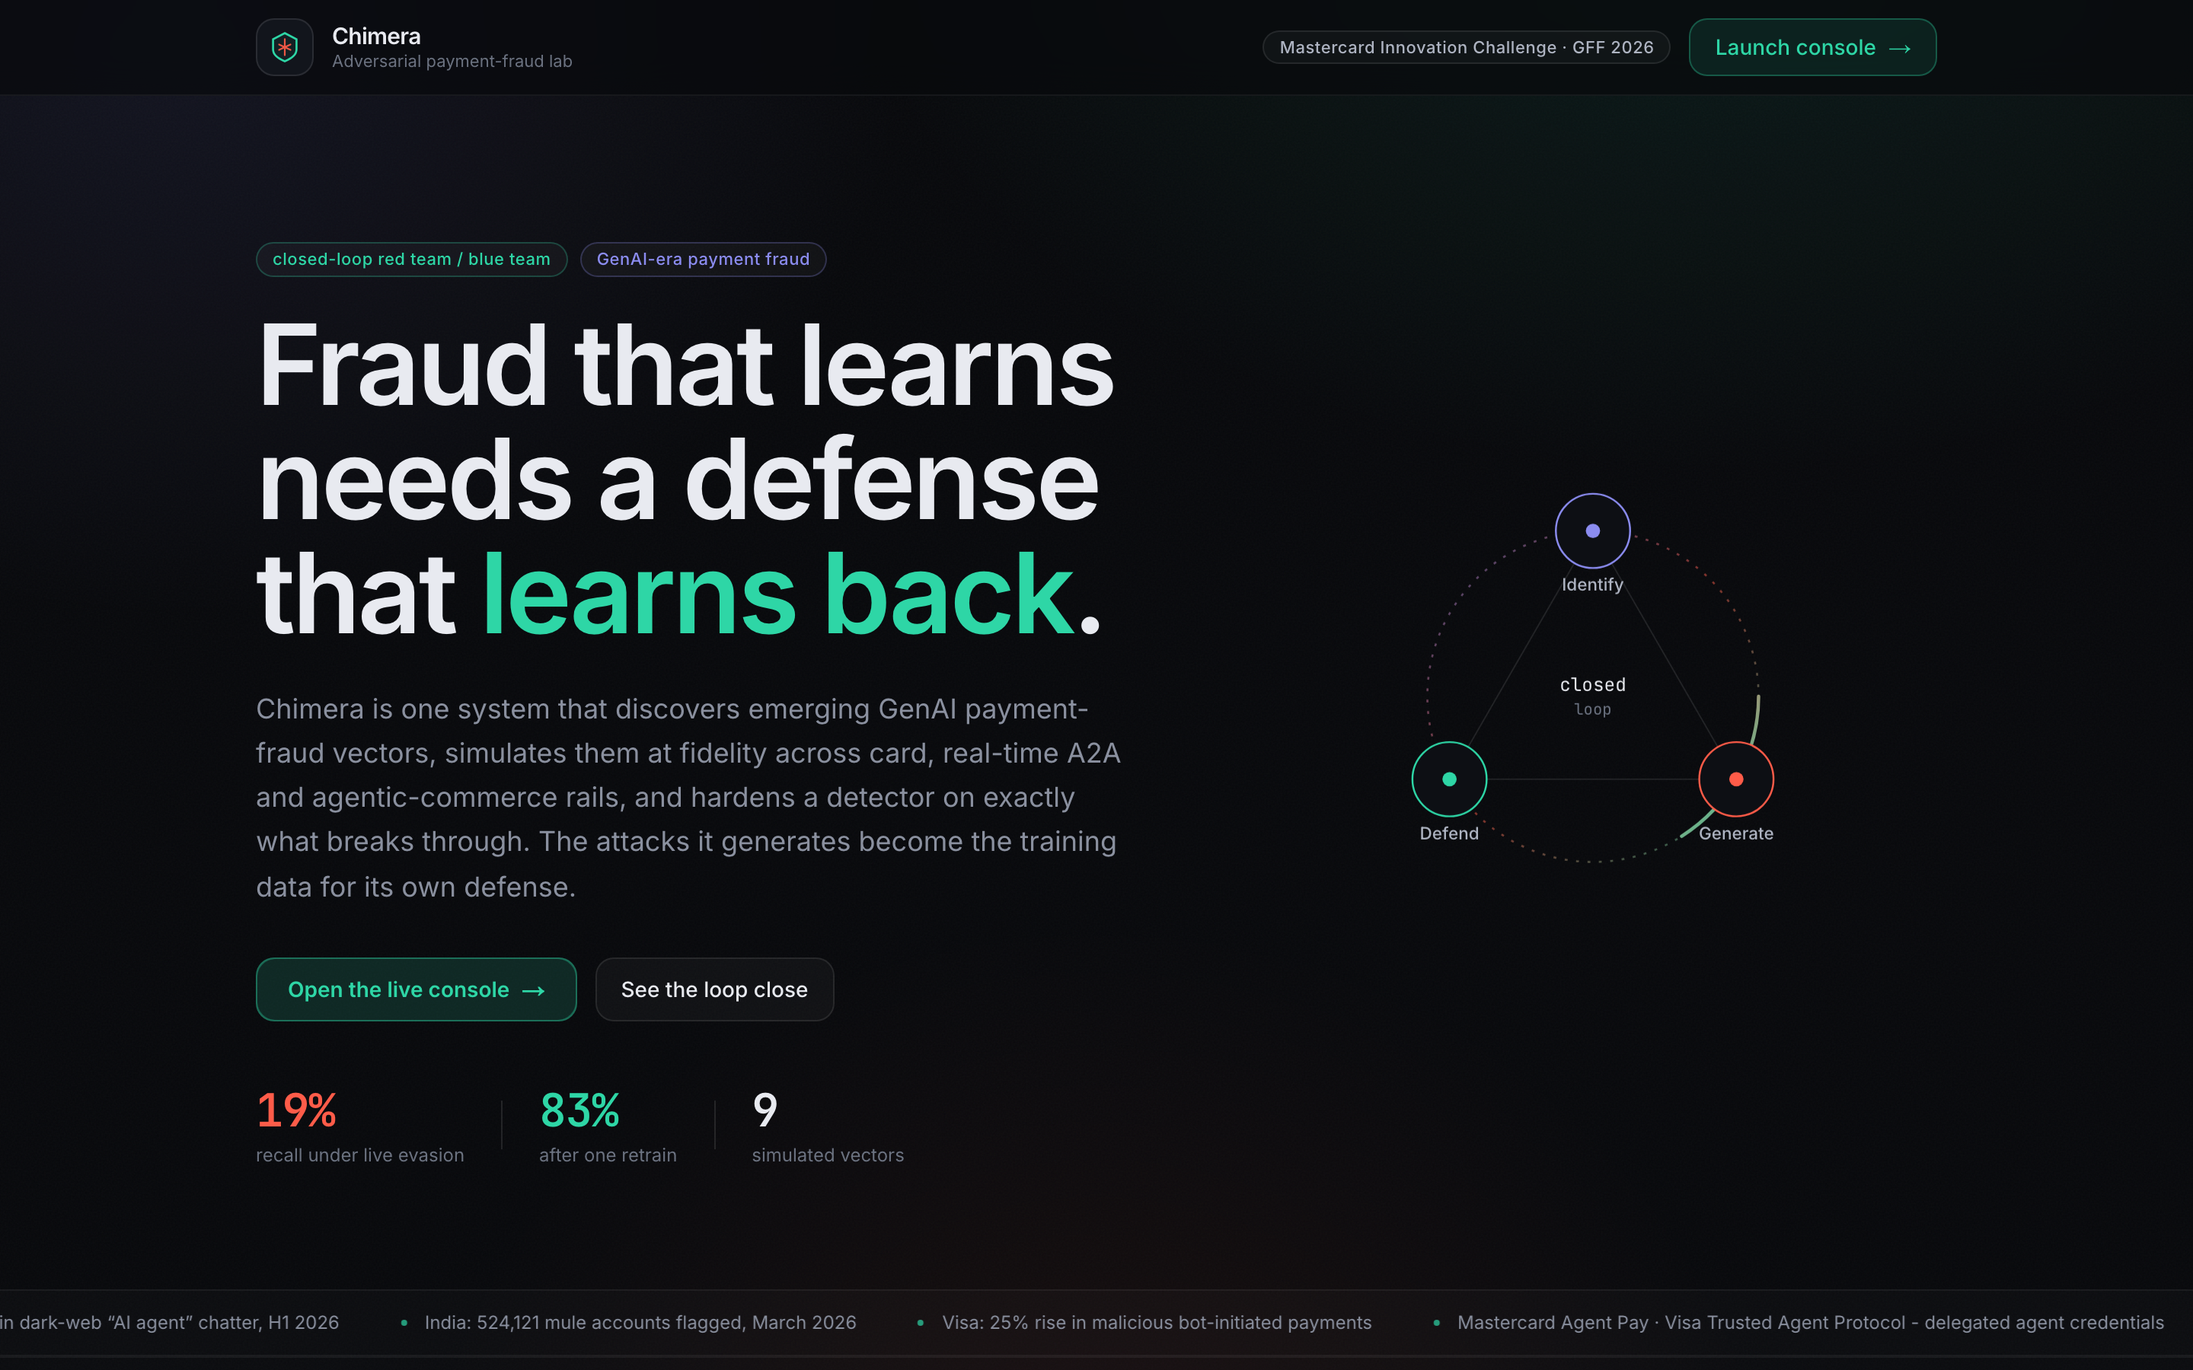
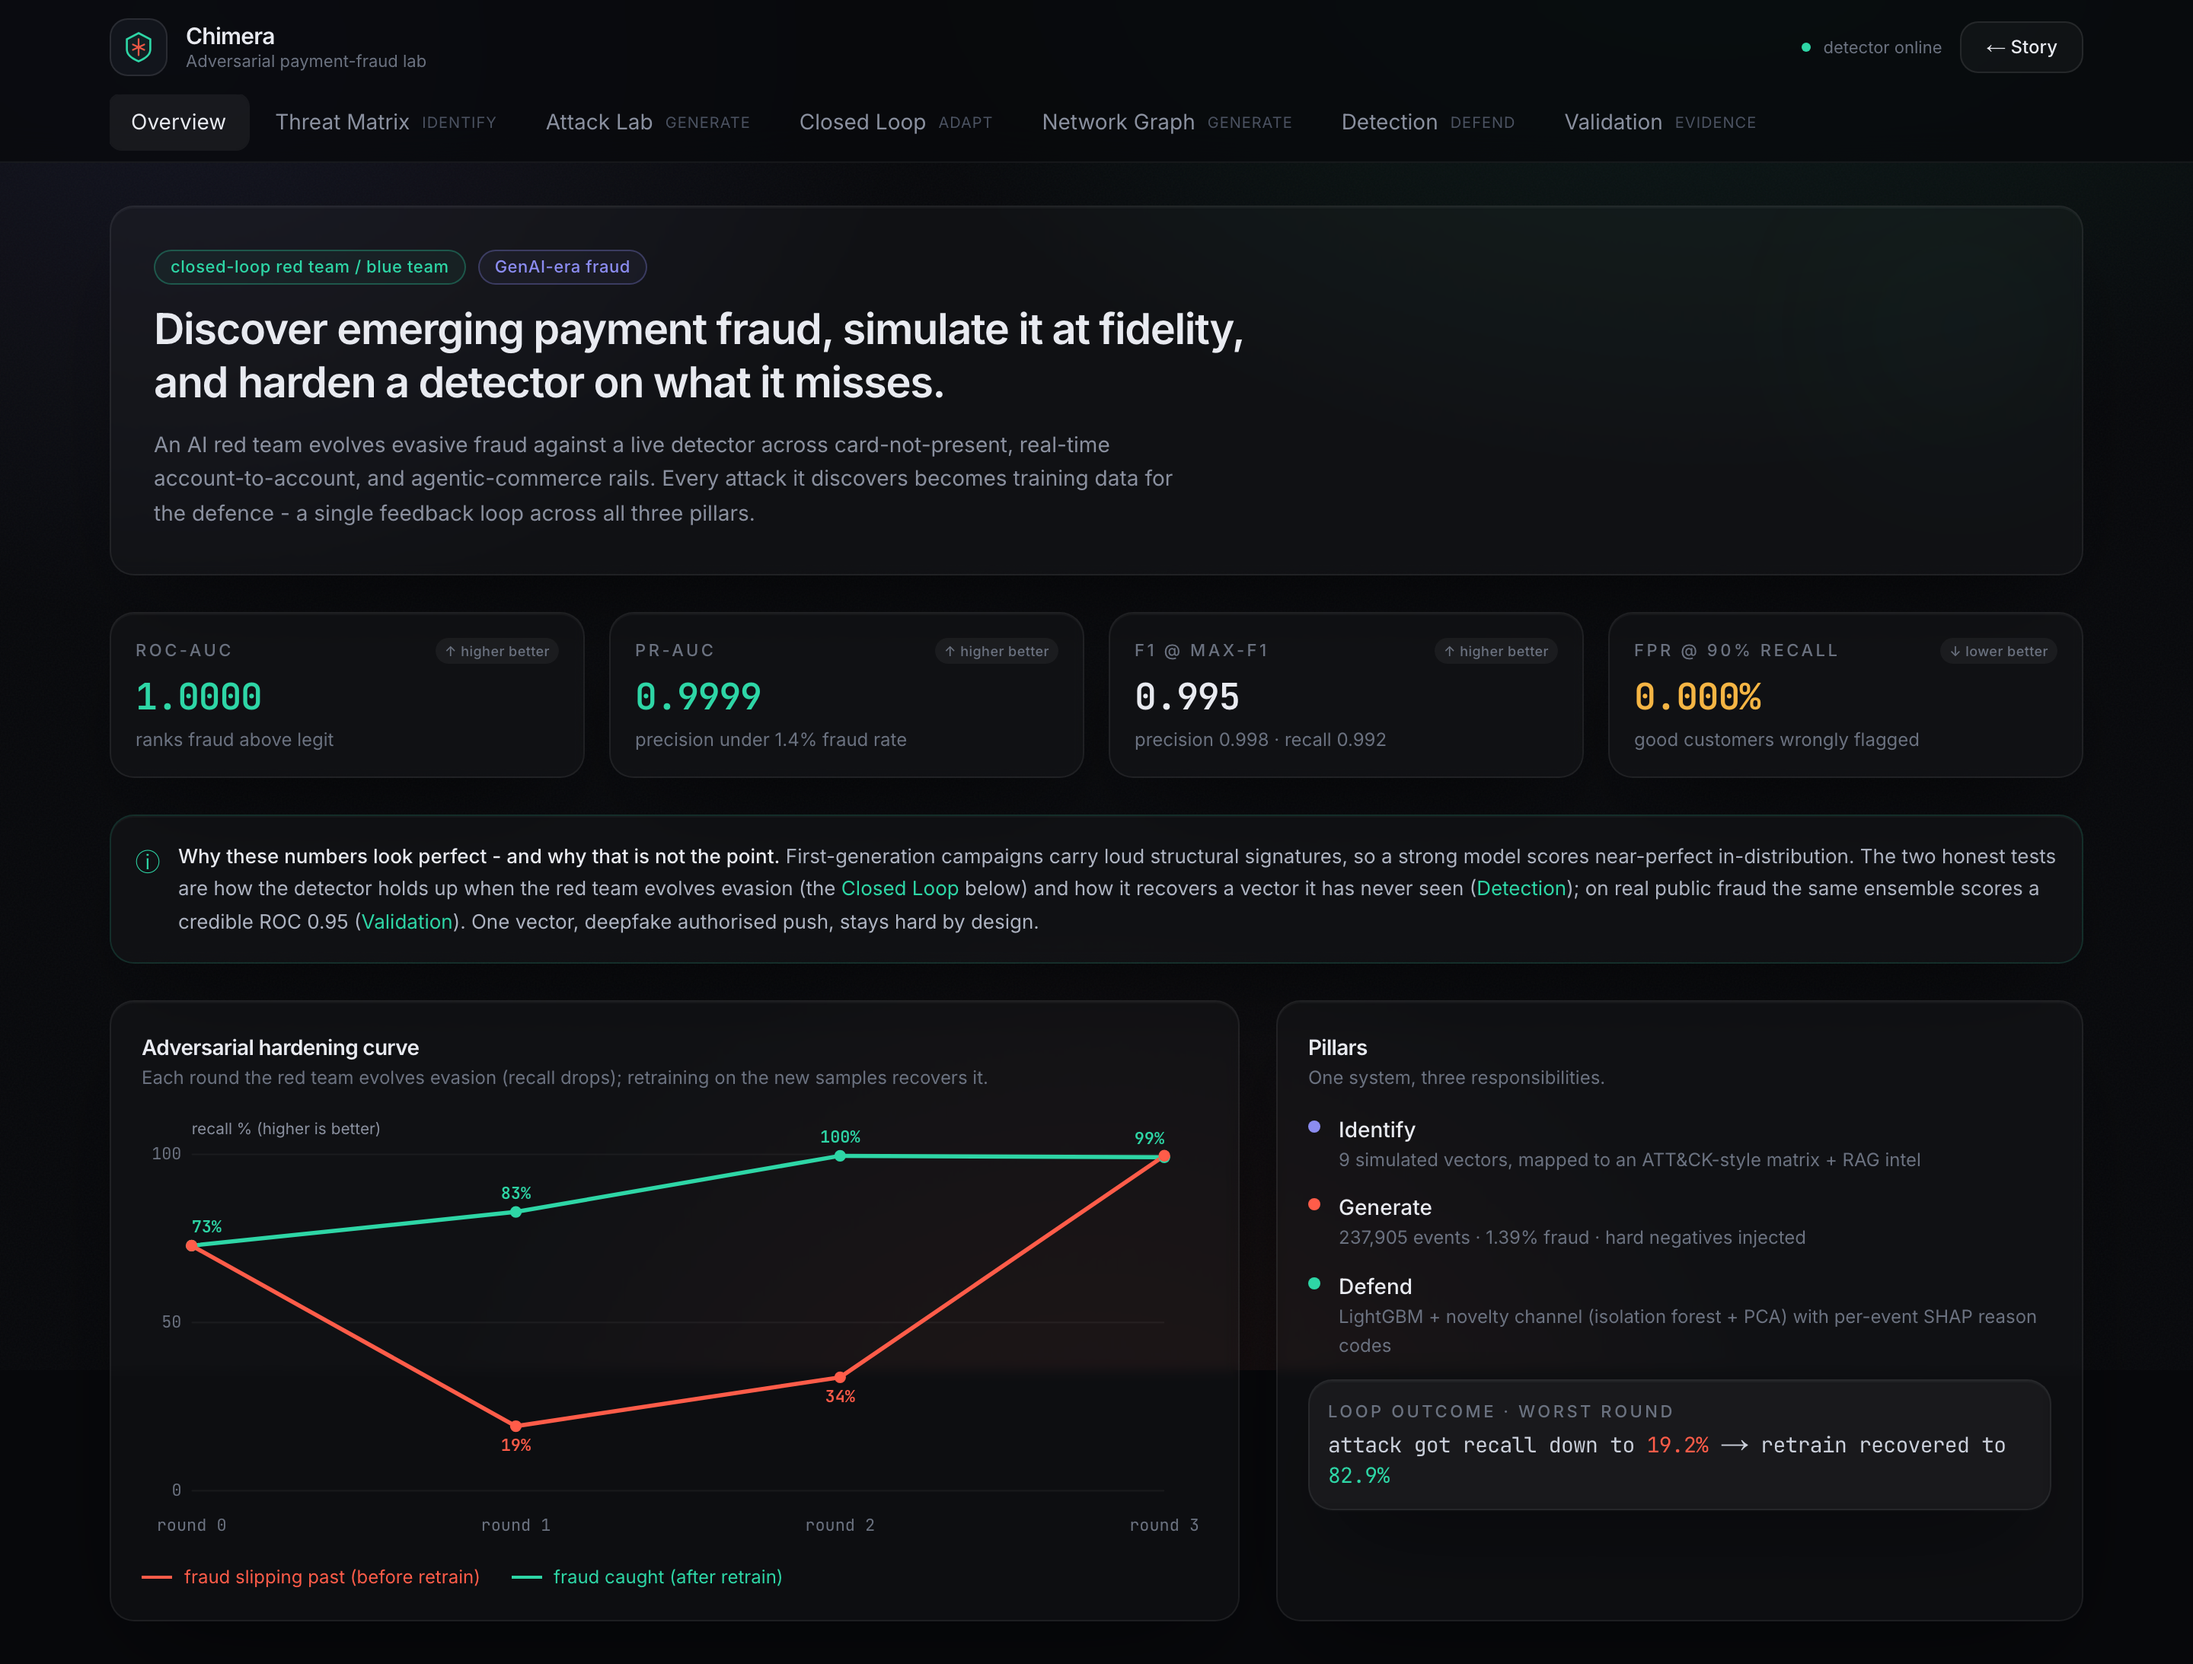
Overview: surface the 'near-perfect is expected, not the point' framing at the metrics
The Overview shows ROC 1.00 / PR 0.9999 first, so a skimming judge could misread
them before the caveats. Added the same honest note used in Detection, right under
the metric cards, pointing to the Closed Loop, Detection and Validation (real ROC
0.95) as the tests that actually matter.

diff --git a/frontend/components/views/Overview.tsx b/frontend/components/views/Overview.tsx
@@ -45,6 +45,21 @@ export function Overview() {
         <Fade delay={0.2}><Metric label="FPR @ 90% recall" tone="warn" better="lower" value={s ? `${(s.fpr_at_90_recall * 100).toFixed(3)}%` : " - "} sub="good customers wrongly flagged" /></Fade>
       </div>
 
+      <Fade delay={0.25}>
+        <div className="panel flex gap-3 border-defense/15 p-4">
+          <span className="mt-0.5 text-defense">ⓘ</span>
+          <p className="text-[13px] leading-relaxed text-mist-300">
+            <span className="font-medium text-mist-100">Why these numbers look perfect - and why that is not the point.</span>{" "}
+            First-generation campaigns carry loud structural signatures, so a strong model scores near-perfect
+            in-distribution. The two honest tests are how the detector holds up when the red team evolves evasion
+            (the <span className="text-defense">Closed Loop</span> below) and how it recovers a vector it has never
+            seen (<span className="text-defense">Detection</span>); on real public fraud the same ensemble scores a
+            credible ROC 0.95 (<span className="text-defense">Validation</span>). One vector, deepfake authorised
+            push, stays hard by design.
+          </p>
+        </div>
+      </Fade>
+
       <div className="grid gap-6 lg:grid-cols-[1.4fr_1fr]">
         <Panel title="Adversarial hardening curve"
           hint="Each round the red team evolves evasion (recall drops); retraining on the new samples recovers it.">
